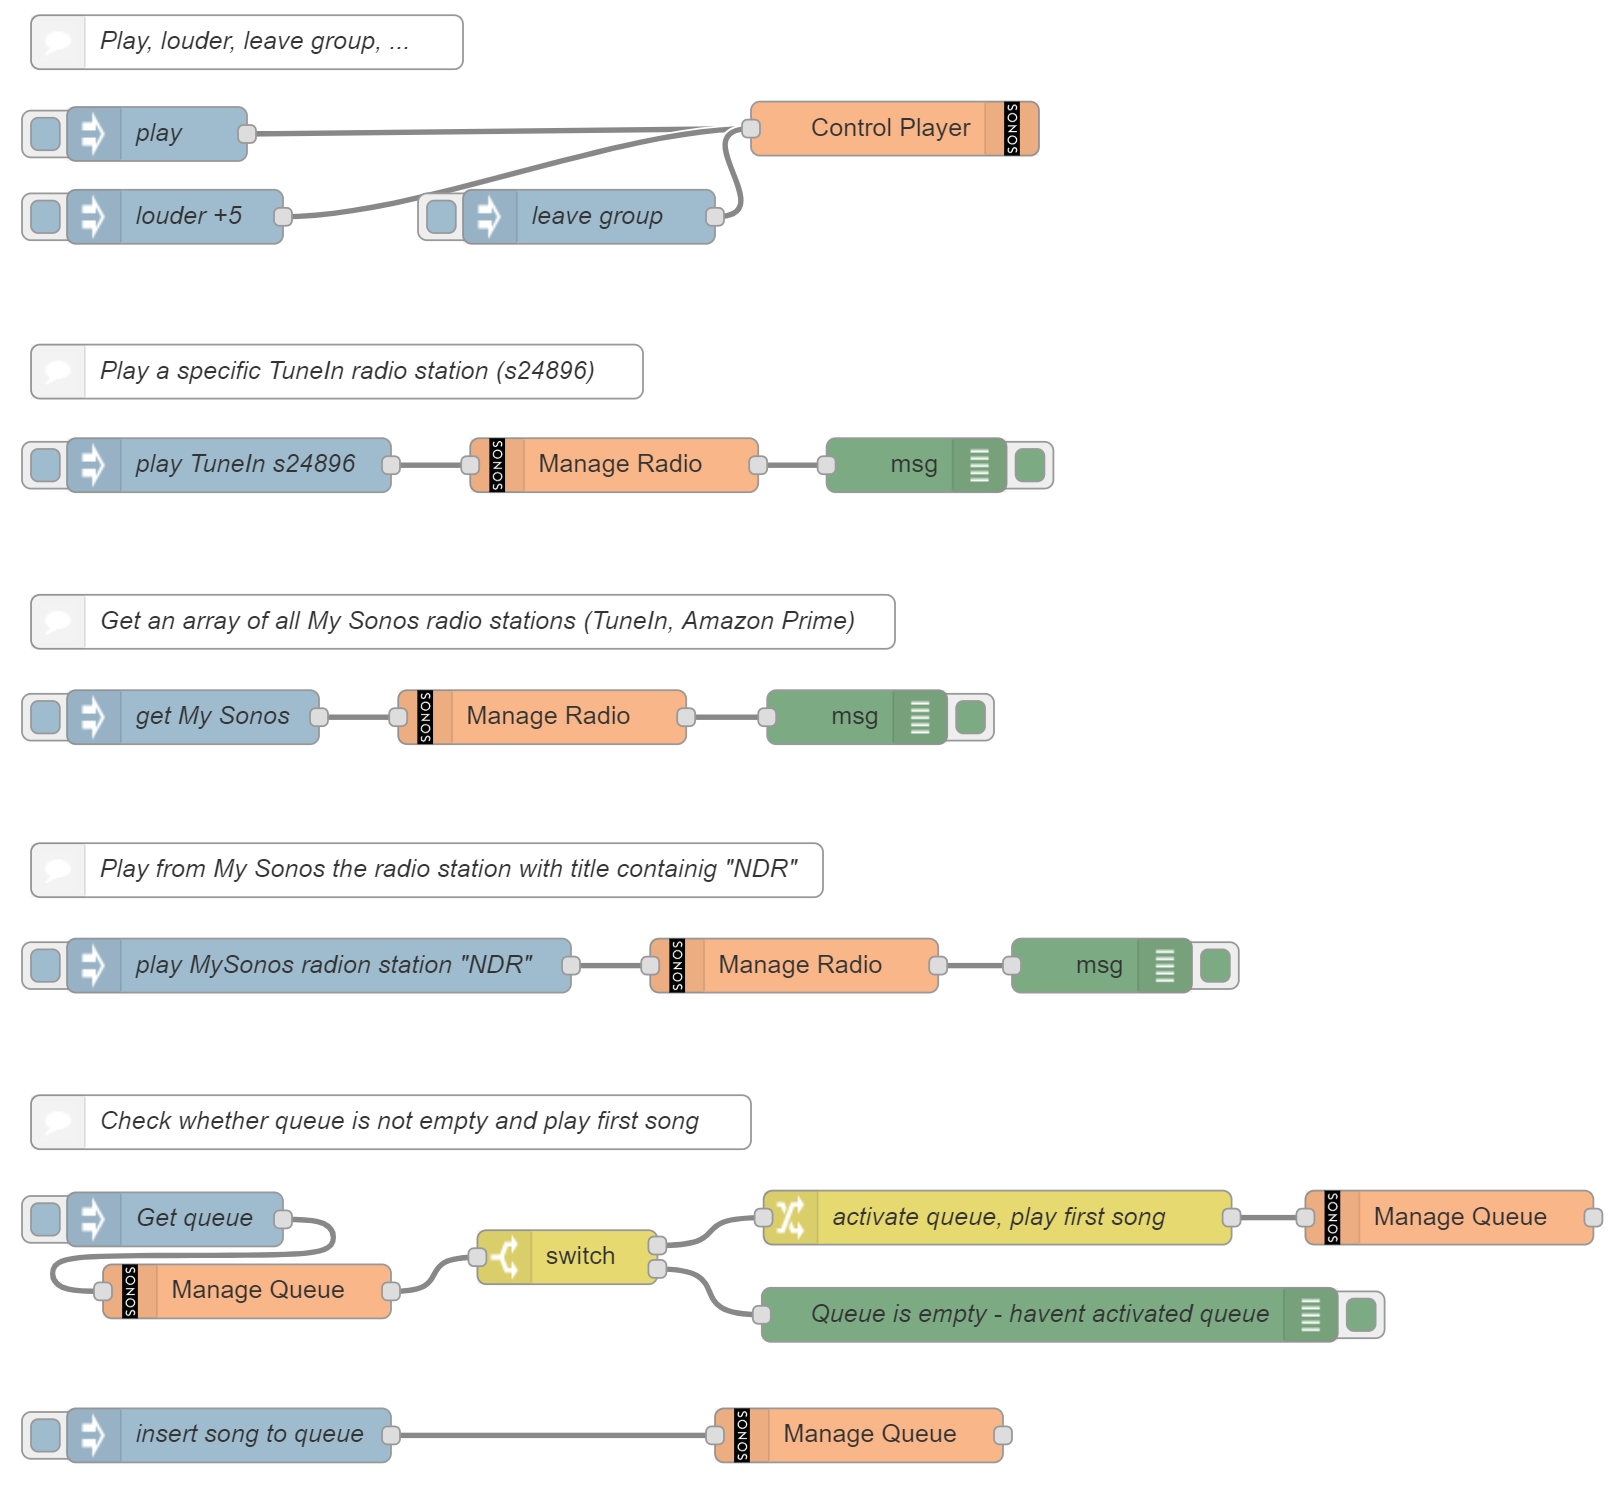
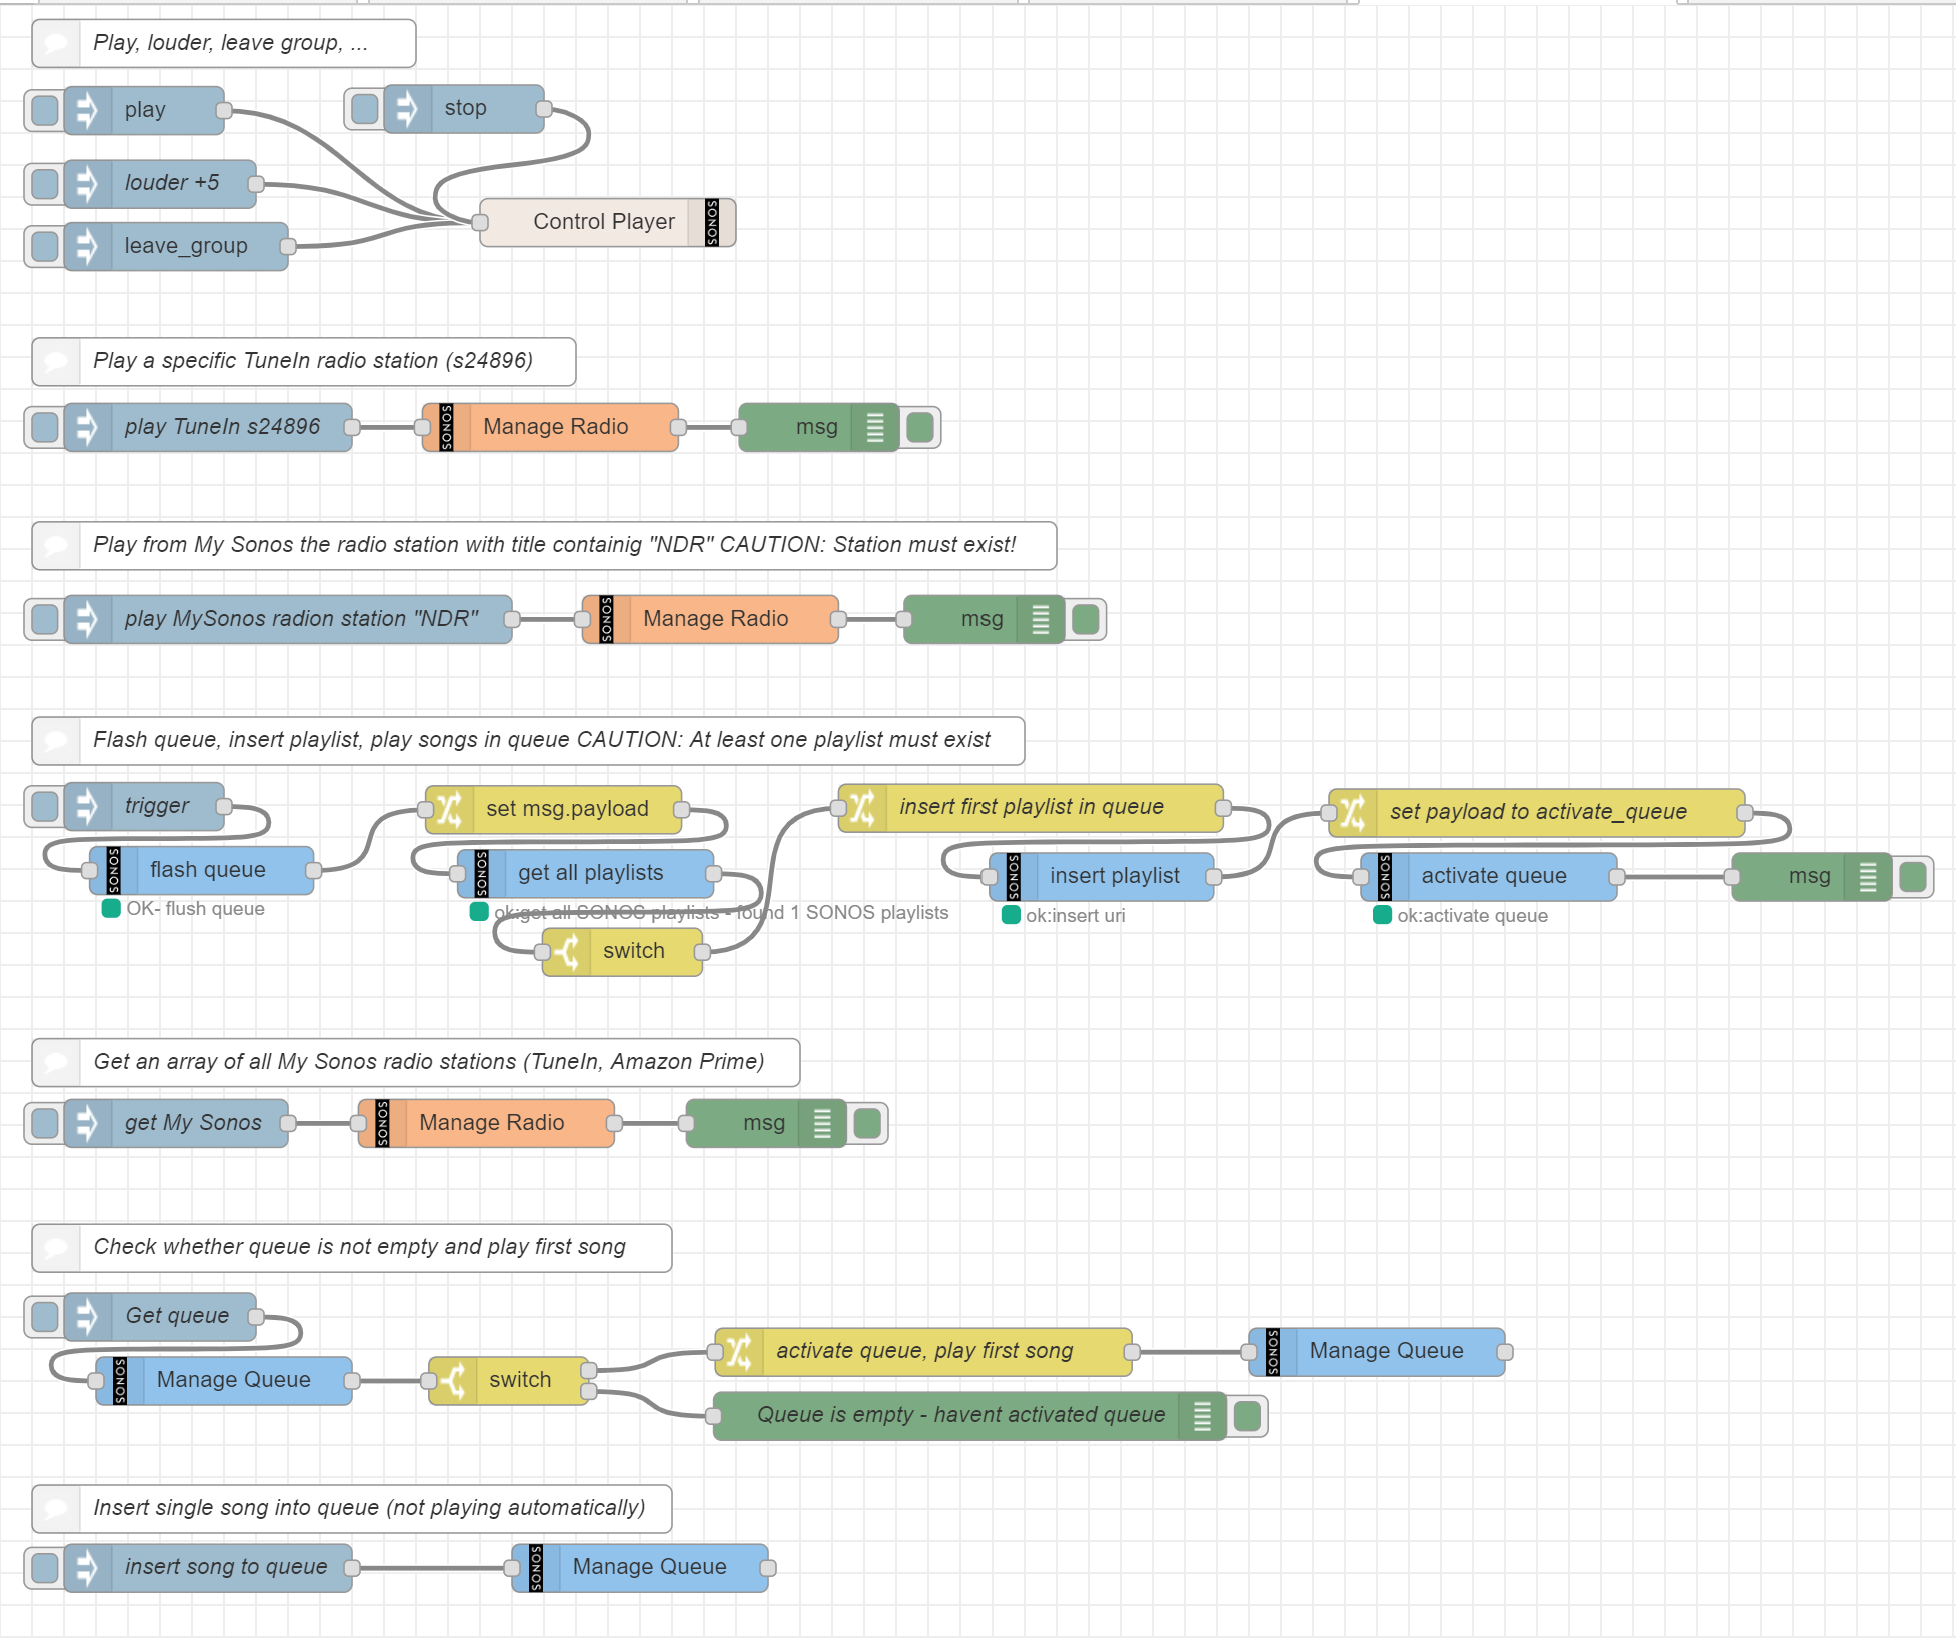
2019-08-26 update readme

Changed region(s): [[0.0, 0.2182, 0.9889, 0.9038], [0.0, 0.0, 0.6489, 0.187], [0.0, 0.9038, 0.6489, 0.9973]]

diff --git a/README.md b/README.md
@@ -7,7 +7,7 @@ A set of NodeRed nodes to control SONOS player in your local WLAN.
 This package uses code from **node-red-contrib-better-sonos**. I created this new package since the former package hasn't been maintained for more then a year.
 
 ## NEWS
-2019-08-26 Insert SONOS playlist to queue and play
+2019-08-26 Insert SONOS playlist to queue and play songs now possible
 
 ## Installation
 
